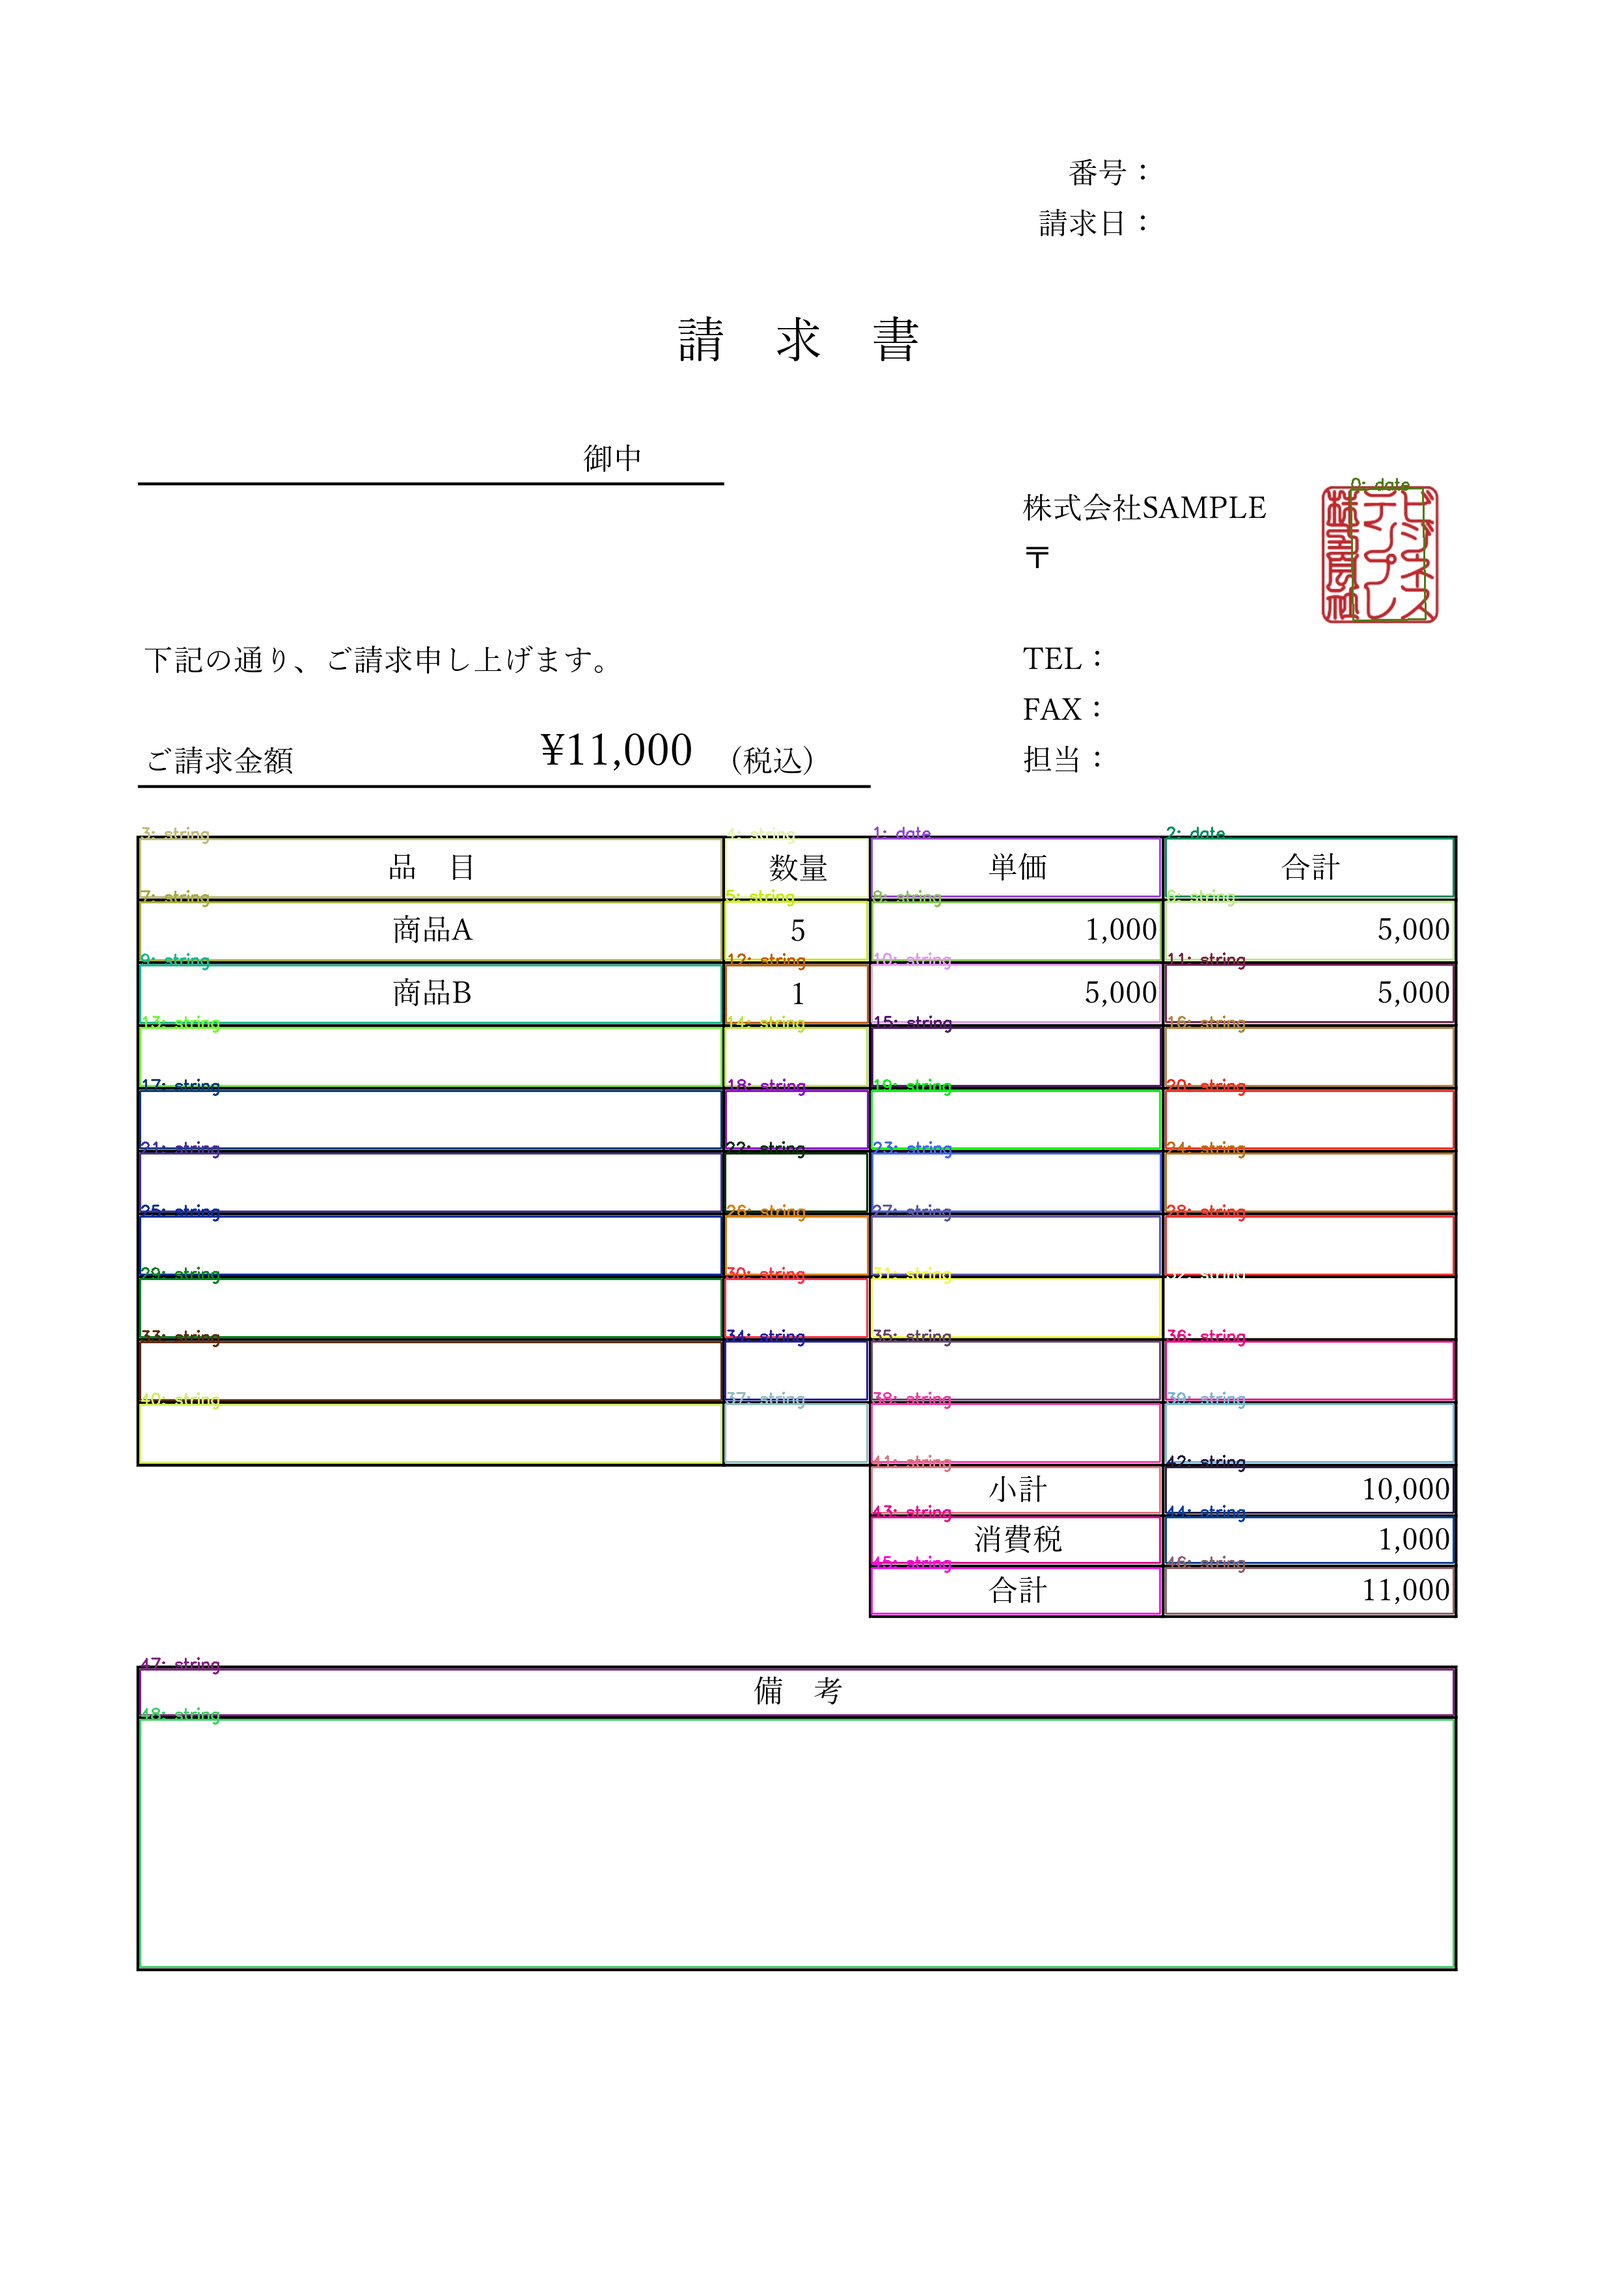
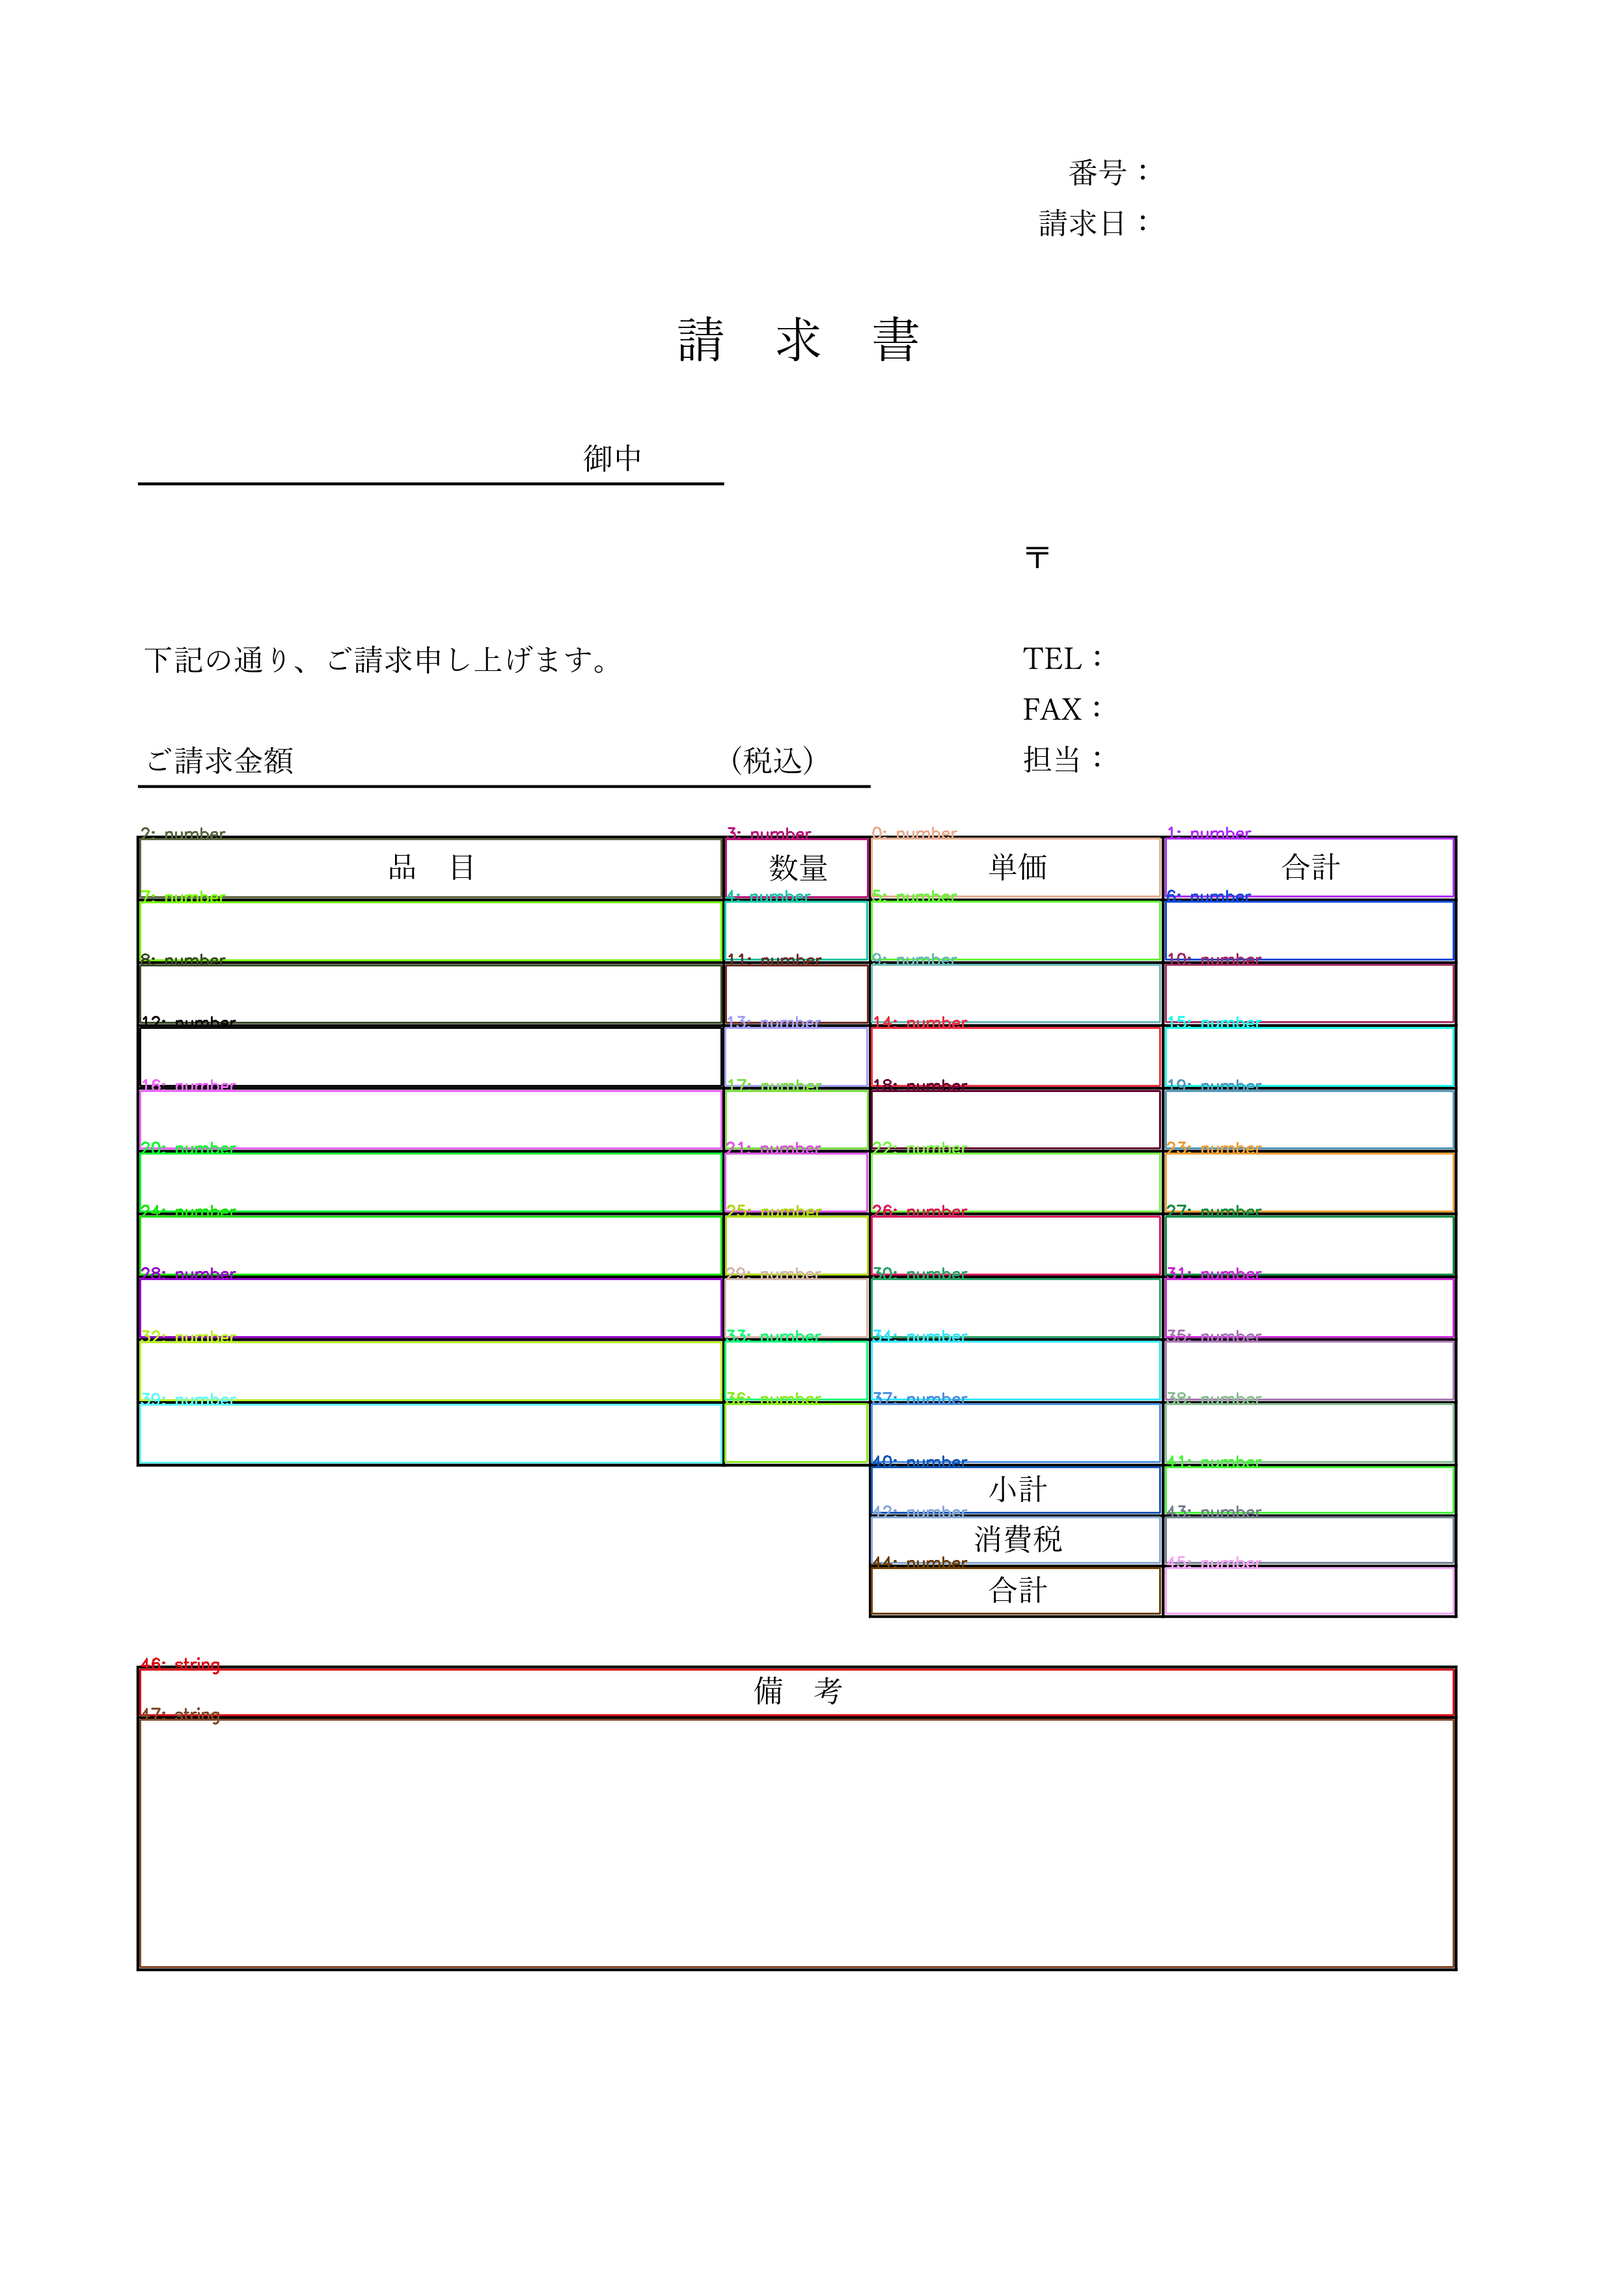
update: 領域座標の白塗りによる文字認識精度の向上

diff --git a/predict_area_label.py b/predict_area_label.py
@@ -42,7 +42,7 @@ def area_detection(input_img: np.ndarray, filename: str) -> Tuple[np.ndarray, Li
     return img_rects, img_underline, rect_coords, underline_coords
 
 
-def text_extraction(input_img: np.ndarray, filename: str) -> Tuple[List[str], List[np.ndarray]]:
+def text_extraction(input_img: np.ndarray, filename: str, rect_coords: np.ndarray, underline_coords) -> Tuple[List[str], List[np.ndarray]]:
     """ 文字抽出機能を動作させる関数
     
     ディレクトリ作成から文字の抽出とバウンディングボックスの座標を検出するまでの処理をまとめた関数
@@ -62,11 +62,29 @@ def text_extraction(input_img: np.ndarray, filename: str) -> Tuple[List[str], Li
     # 入力画像の読み込み
     img_OCR_original, img_OCR = load_OCR_image(input_img)
     
+    # 矩形領域と下線部領域を白に塗りつぶす
+    for i, rect in enumerate(rect_coords):
+        cv2.drawContours(img_OCR_original, rect_coords, i, (255, 255, 255), 12)
+        
+    for i in range(len(underline_coords)):
+        x1, y1, x2, y2 = underline_coords[i]
+        cv2.line(img_OCR_original, (x1, y1), (x2, y2), (255, 255, 255), 12)
+        
+    results_path = './results/labels' 
+    cv2.imwrite(f'{results_path}/1_before_OCR.png', img_OCR_original) # 確認用
+    
     # 画像処理
     img_OCR_bw = process_image_OCR(img_OCR_original)
     
     # テキスト抽出とバウンディングボックス検出
     txts, b_boxes = find_text_and_bounding_box(img_OCR_bw, img_OCR, filename)
+    
+    # 画像への描画
+    for i in range(len(txts)):
+        cv2.rectangle(img_OCR_original, b_boxes[i][0], b_boxes[i][1], (0, 0, 255), 1) # 検出した箇所を赤枠で囲む
+        cv2.putText(img_OCR_original, str(i), b_boxes[i][0], cv2.FONT_HERSHEY_SIMPLEX, 0.8, (0, 0, 255), 2) # 番号をふる
+        
+    cv2.imwrite(f'{results_path}/2_after_OCR.png', img_OCR_original) # 確認用
     
     return txts, b_boxes
 
@@ -152,7 +170,7 @@ def main():
     file_name = os.path.splitext(os.path.basename(input_path))[0]
     
     image_rects, image_underlines, rect_coordinates, underline_coordinates = area_detection(input_path, file_name)
-    texts, bounding_box_coordinates = text_extraction(input_path, file_name)
+    texts, bounding_box_coordinates = text_extraction(input_path, file_name, rect_coordinates, underline_coordinates)
     
     print('\nstart label prediction')
     rect_area_labels, underline_area_labels = label_prediction(rect_coordinates, underline_coordinates, texts, bounding_box_coordinates, file_name)

diff --git a/predict_text_att.py b/predict_text_att.py
@@ -47,13 +47,14 @@ def predict_text_attribute(tokenizer, model, txt: str) -> str:
     # プロンプトの記述
     instruction = """
     # 命令書:
-    以下の制約条件にあてはまるものを出力してください。
+    以下の制約条件にあてはまるものを出力せよ。
     
     # 制約条件
-    ・記入欄に記入する内容が、日付、文字列、数値の中から、どのデータ型が最も適切であるかを選択してください。
-    ・出力は短く、あてはまるデータ型のみとします。
+    ・記入欄に記入する内容が、日付、文字列、数値の中から、どのデータ型が最も適切であるかを選択する。
+    ・出力は短く、あてはまるデータ型のみとする。
+    ・例として、年月日などは日付、氏名などは文字列、金額などは数値があてはまる。
     """
-    input = f"「{txt}」という欄がどのデータ型に該当するかを、日付、文字列、数値の中から最も適切なものを選んでください。不明の場合は、不明としてください。"
+    input = f"「{txt}」という欄がどのデータ型に該当するか。"
     
     context = [
         {

diff --git a/detect_area.py b/detect_area.py
@@ -387,6 +387,7 @@ def main():
             rect_sorted = np.array(sort_points(rect))        
             color = np.random.randint(0, 255, 3).tolist()
             cv2.drawContours(image_rects, rect_coords, i, color, 2)
+            #cv2.drawContours(image_rects, rect_coords, i, (255,255,255), 12)
             cv2.putText(image_rects, str(i), tuple(rect[0]), cv2.FONT_HERSHEY_SIMPLEX, 0.8, color, 2)
             
             print(f'rect({i}):\n{rect_sorted}')
@@ -404,7 +405,8 @@ def main():
     else:
         for i in range(len(underline_coords)):
             x1, y1, x2, y2 = underline_coords[i]
-            cv2.line(image_underline, (x1, y1), (x2, y2), (0, 255, 0), 2)
+            cv2.line(image_underline, (x1, y1), (x2, y2), (255, 255, 255), 12)
+            #cv2.line(image_underline, (x1, y1), (x2, y2), (0, 255, 0), 2)
             cv2.putText(image_underline, str(i), (x1, y1 - 10), cv2.FONT_HERSHEY_SIMPLEX, 0.8, (0, 255, 0), 2)
 
             print(f'line({i}):\n{underline_coords[i]}')

diff --git a/OCR.py b/OCR.py
@@ -9,6 +9,7 @@ import cv2
 from PIL import Image
 from fugashi import Tagger
 from prepare import create_OCR_directories, load_OCR_image
+from detect_area import create_area_directories, load_area_image, process_image_rect, process_image_underline, find_rectangles, find_underlines
 from export_data import export_OCR_data
 from functools import reduce
 

diff --git a/prepare.py b/prepare.py
@@ -36,6 +36,7 @@ def create_label_directories() -> None:
     ラベル付与の実行結果としてエクスポートするディレクトリを作成する
 
     """
+    os.makedirs('./results/labels', exist_ok=True)
     os.makedirs('./data/labels/json', exist_ok=True)
     os.makedirs('./data/labels/csv', exist_ok=True)
 
